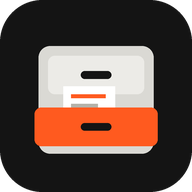
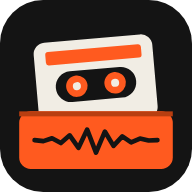
לוגו חדש: קלטת שיוצאת ממגירה עם גל קול
Claude-Session: https://claude.ai/code/session_017nXJhEEwZwv15ppjKq5qyg

diff --git a/sw.js b/sw.js
@@ -1,6 +1,6 @@
 // שומר את קבצי האפליקציה במכשיר כדי שתיפתח גם בלי קליטה.
 // לא שומר שום תוכן: השירים נשמרים מוצפנים בנפרד, וההקלטות לא נשמרות כאן.
-const V = 'megira-v1';
+const V = 'megira-v2';
 const SHELL = ['./', 'index.html', 'css/app.css', 'manifest.webmanifest', 'js/app.js', 'js/api.js', 'js/store.js', 'js/db.js', 'js/crypto.js', 'js/chords.js', 'js/audio.js', 'js/importer.js', 'js/config.js', 'icons/icon-192.png', 'icons/apple-touch-icon.png', 'icons/favicon.png'];
 
 self.addEventListener('install', e => { e.waitUntil(caches.open(V).then(c => c.addAll(SHELL)).then(() => self.skipWaiting())); });
